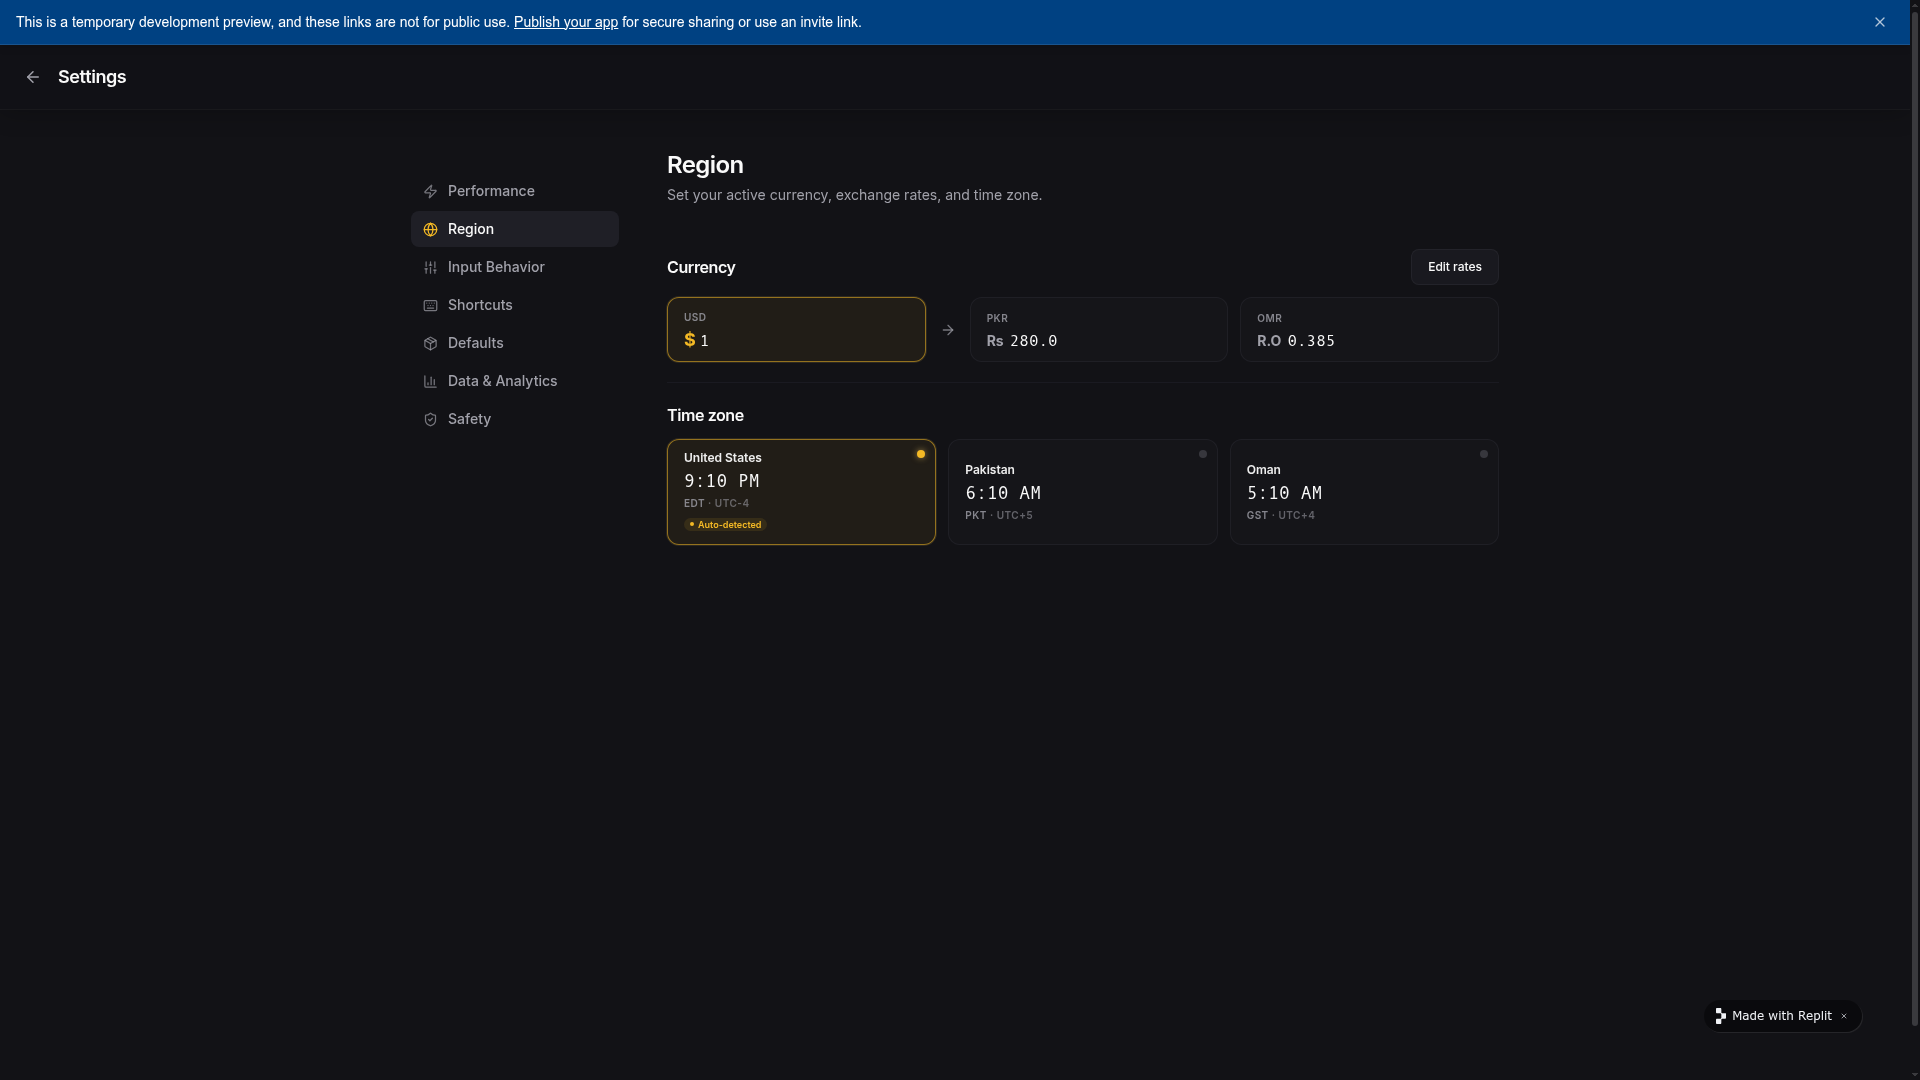
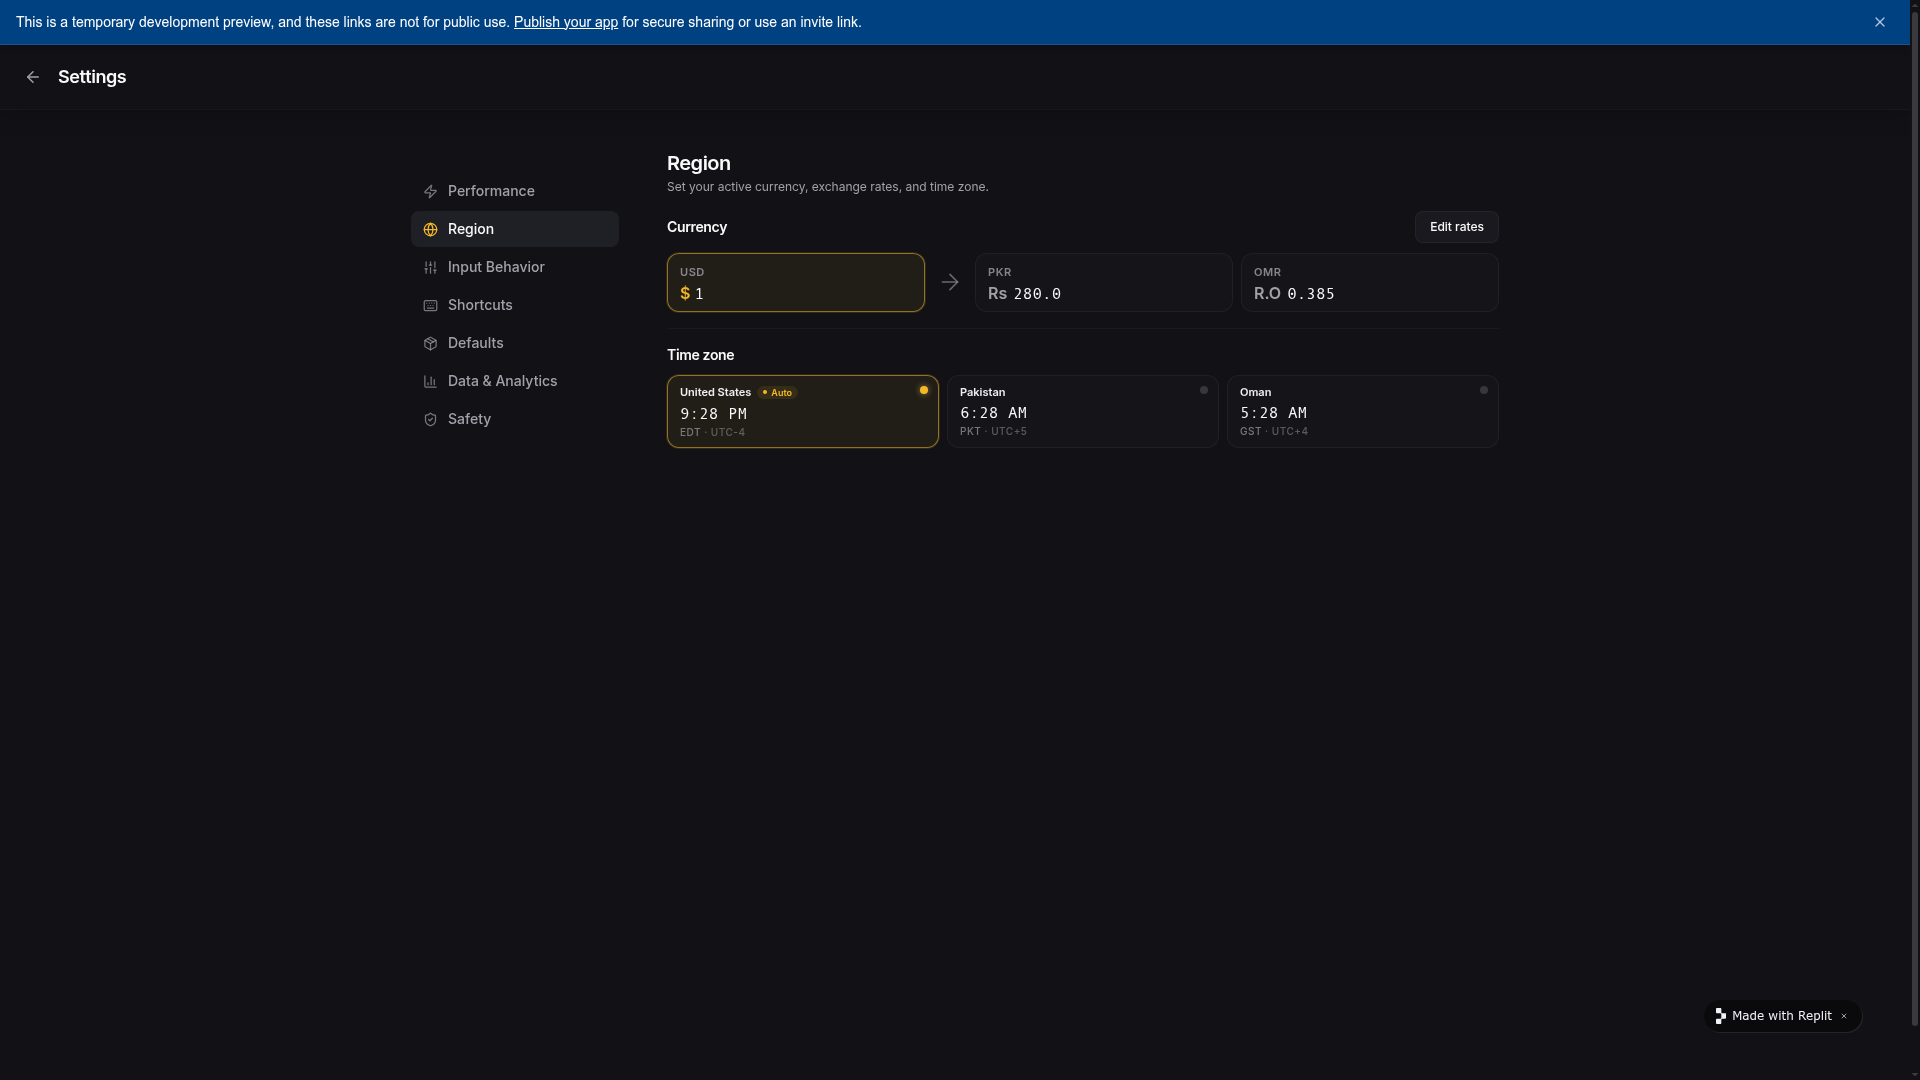
Improve visual polish and layout consistency across the Region tab
Implement a refined typography scale and spacing adjustments in the Region tab, and reposition the auto-detected badge inline with country names.

Replit-Commit-Author: Agent
Replit-Commit-Session-Id: fb33fa46-3691-49df-94f1-1d14acff730e
Replit-Commit-Checkpoint-Type: full_checkpoint
Replit-Commit-Event-Id: 8c5be78c-9d84-4fb3-9e41-23735abbb766
Replit-Helium-Checkpoint-Created: true

diff --git a/artifacts/pos-system/src/pages/Settings.tsx b/artifacts/pos-system/src/pages/Settings.tsx
@@ -247,11 +247,30 @@ function PerformanceSection() {
   );
 }
 
+/* ── Region tab — visual hierarchy ────────────────────────────────────────
+   T1  page title          — text-lg sm:text-xl font-semibold
+   T2  block heading       — text-sm  font-semibold
+   T3  card eyebrow        — text-[11px] font-semibold (codes uppercase+tracked,
+                             country names in normal case)
+   T4  primary value       — text-base font-mono font-semibold (rate / time)
+   T4  unit prefix         — text-base font-semibold (matches value baseline)
+   T5  card meta line      — text-[10px] uppercase tracking-wider font-medium
+   T6  badges              — text-[9px]  font-semibold
+   B   buttons             — text-xs    font-medium
+   Spacing is intentionally tight: the whole tab is one compact, scannable
+   surface with no wasted vertical real-estate. */
+
 function RegionSection() {
   return (
     <>
-      <SectionHeader title="Region" desc="Set your active currency, exchange rates, and time zone." />
+      {/* Compact T1 page title — overrides the global SectionHeader's larger
+          spacing so the Region tab feels denser. */}
+      <div className="mb-4">
+        <h2 className="text-lg sm:text-xl font-semibold tracking-tight">Region</h2>
+        <p className="text-xs text-muted-foreground mt-0.5">Set your active currency, exchange rates, and time zone.</p>
+      </div>
       <CurrencyRatesBlock />
+      <div className="h-px bg-border/40 my-4" />
       <TimeZoneBlock />
     </>
   );
@@ -259,11 +278,11 @@ function RegionSection() {
 
 /* ── Currency block ────────────────────────────────────────────────────────
    Section title "Currency" on the left, "Edit rates" button on the right.
-   Below: three cards in a horizontal row — USD, then a right-pointing arrow,
-   then PKR and OMR. USD shows "$1" and is never editable. PKR and OMR show
-   their rate (1-decimal / 3-decimal). When editing, PKR and OMR cards expose
-   inline number inputs and the button toggles to "Save". On Save, values are
-   re-formatted to their fixed precision. */
+   Below: three cards in a horizontal row — USD, then a tall right-pointing
+   arrow, then PKR and OMR. USD shows "$1" and is never editable. PKR and OMR
+   show their rate (1-decimal / 3-decimal). When editing, PKR and OMR cards
+   expose inline number inputs and the button toggles to "Save". On Save,
+   values are re-formatted to their fixed precision. */
 function CurrencyRatesBlock() {
   const { settings, update } = useSettings();
   const [editing, setEditing] = useState(false);
@@ -296,29 +315,35 @@ function CurrencyRatesBlock() {
   const dispPkr = settings.rates.PKR.toFixed(1);
   const dispOmr = settings.rates.OMR.toFixed(3);
 
+  // Card chrome shared across USD / PKR / OMR.
   const cardBase =
-    "group relative text-left px-3 sm:px-4 py-3 rounded-xl border transition-all duration-300";
+    "group relative text-left px-3 py-2.5 rounded-xl border transition-all duration-300";
   const cardActive =
     "border-primary/55 bg-primary/[0.07] shadow-[0_0_0_1px_rgba(212,175,90,0.14)]";
   const cardInactive =
     "border-border/50 bg-white/[0.015] hover:border-border hover:bg-white/[0.03]";
 
+  // Tier classes — single source of truth so all three cards stay in lockstep.
+  const eyebrowCls = "text-[11px] uppercase tracking-wider text-muted-foreground/80 font-semibold mb-1";
+  const valueCls   = "text-base font-mono font-semibold text-foreground tabular-nums leading-none";
+  const unitCls    = "text-base font-semibold text-muted-foreground leading-none";
+
   return (
-    <Block>
+    <div>
       {/* Section title left, action button right — same row */}
-      <div className="flex items-center justify-between mb-3">
-        <h3 className="text-sm sm:text-base font-semibold tracking-tight">Currency</h3>
+      <div className="flex items-center justify-between mb-2.5">
+        <h3 className="text-sm font-semibold tracking-tight">Currency</h3>
         {editing ? (
           <div className="flex items-center gap-2 shrink-0">
             <button
               onClick={() => setEditing(false)}
-              className="h-9 px-3 rounded-lg text-xs font-medium text-muted-foreground hover:text-foreground hover:bg-secondary/50 transition-all duration-200"
+              className="h-8 px-3 rounded-lg text-xs font-medium text-muted-foreground hover:text-foreground hover:bg-secondary/50 transition-all duration-200"
             >
               Cancel
             </button>
             <button
               onClick={save}
-              className="h-9 px-4 rounded-lg bg-primary text-primary-foreground text-xs font-semibold hover:bg-primary/90 active:scale-[0.97] transition-all duration-200"
+              className="h-8 px-3.5 rounded-lg bg-primary text-primary-foreground text-xs font-semibold hover:bg-primary/90 active:scale-[0.97] transition-all duration-200"
               data-testid="btn-save-rates"
             >
               Save
@@ -327,7 +352,7 @@ function CurrencyRatesBlock() {
         ) : (
           <button
             onClick={enterEdit}
-            className="h-9 px-4 rounded-lg border border-border/60 bg-secondary/40 text-xs font-medium text-foreground hover:border-border hover:bg-secondary/60 transition-all duration-200 shrink-0"
+            className="h-8 px-3.5 rounded-lg border border-border/60 bg-secondary/40 text-xs font-medium text-foreground hover:border-border hover:bg-secondary/60 transition-all duration-200 shrink-0"
             data-testid="btn-edit-rates"
           >
             Edit rates
@@ -336,7 +361,7 @@ function CurrencyRatesBlock() {
       </div>
 
       {/* USD → PKR  OMR — arrow appears between USD and PKR only */}
-      <div className="flex items-stretch gap-2 sm:gap-3">
+      <div className="flex items-stretch gap-2">
         {/* USD card — locked base, never editable */}
         <button
           type="button"
@@ -345,16 +370,21 @@ function CurrencyRatesBlock() {
           className={`flex-1 ${cardBase} ${settings.currency === "USD" ? cardActive : cardInactive} ${editing ? "cursor-default" : "cursor-pointer"}`}
           data-testid="card-usd"
         >
-          <div className="text-[10px] uppercase tracking-wider text-muted-foreground/80 font-semibold mb-1.5">USD</div>
+          <div className={eyebrowCls}>USD</div>
           <div className="flex items-baseline gap-1">
-            <span className="text-base sm:text-lg font-bold text-primary leading-none">$</span>
-            <span className="text-[15px] sm:text-base font-mono font-semibold text-foreground tabular-nums leading-none">1</span>
+            <span className={`${unitCls} text-primary`}>$</span>
+            <span className={valueCls}>1</span>
           </div>
         </button>
 
-        {/* Arrow — between USD and PKR only */}
-        <div className="flex items-center justify-center shrink-0 px-0.5 text-muted-foreground/70" aria-hidden="true">
-          <ArrowRight size={16} />
+        {/* Arrow — between USD and PKR only. self-stretch makes the icon
+            container the full card height; the icon itself is large enough
+            to read as a real connector rather than a tick mark. */}
+        <div
+          className="flex items-center justify-center shrink-0 self-stretch px-1 text-muted-foreground/60"
+          aria-hidden="true"
+        >
+          <ArrowRight size={26} strokeWidth={1.5} />
         </div>
 
         {/* PKR card */}
@@ -365,10 +395,10 @@ function CurrencyRatesBlock() {
           className={`flex-1 ${cardBase} ${settings.currency === "PKR" ? cardActive : cardInactive} ${editing ? "cursor-default" : "cursor-pointer"}`}
           data-testid="card-pkr"
         >
-          <div className="text-[10px] uppercase tracking-wider text-muted-foreground/80 font-semibold mb-1.5">PKR</div>
+          <div className={eyebrowCls}>PKR</div>
           {editing ? (
-            <div className="relative h-7 -my-0.5">
-              <span className="absolute left-0 top-1/2 -translate-y-1/2 text-xs font-bold text-muted-foreground pointer-events-none">Rs</span>
+            <div className="relative h-6 -my-0.5">
+              <span className={`absolute left-0 top-1/2 -translate-y-1/2 ${unitCls} pointer-events-none`}>Rs</span>
               <input
                 type="text"
                 inputMode="decimal"
@@ -376,14 +406,14 @@ function CurrencyRatesBlock() {
                 onChange={e => setPkr(e.target.value.replace(/[^0-9.]/g, ''))}
                 onClick={e => e.stopPropagation()}
                 autoFocus
-                className="w-full h-full pl-7 pr-1 bg-transparent border-0 border-b border-primary/50 focus:border-primary text-[15px] sm:text-base font-mono font-semibold text-foreground outline-none transition-colors duration-200 tabular-nums"
+                className={`w-full h-full pl-7 pr-1 bg-transparent border-0 border-b border-primary/50 focus:border-primary outline-none transition-colors duration-200 ${valueCls}`}
                 data-testid="input-rate-pkr"
               />
             </div>
           ) : (
             <div className="flex items-baseline gap-1.5">
-              <span className="text-xs sm:text-sm font-bold text-muted-foreground leading-none">Rs</span>
-              <span className="text-[15px] sm:text-base font-mono font-semibold text-foreground tabular-nums leading-none">{dispPkr}</span>
+              <span className={unitCls}>Rs</span>
+              <span className={valueCls}>{dispPkr}</span>
             </div>
           )}
         </button>
@@ -396,29 +426,29 @@ function CurrencyRatesBlock() {
           className={`flex-1 ${cardBase} ${settings.currency === "OMR" ? cardActive : cardInactive} ${editing ? "cursor-default" : "cursor-pointer"}`}
           data-testid="card-omr"
         >
-          <div className="text-[10px] uppercase tracking-wider text-muted-foreground/80 font-semibold mb-1.5">OMR</div>
+          <div className={eyebrowCls}>OMR</div>
           {editing ? (
-            <div className="relative h-7 -my-0.5">
-              <span className="absolute left-0 top-1/2 -translate-y-1/2 text-xs font-bold text-muted-foreground pointer-events-none">R.O</span>
+            <div className="relative h-6 -my-0.5">
+              <span className={`absolute left-0 top-1/2 -translate-y-1/2 ${unitCls} pointer-events-none`}>R.O</span>
               <input
                 type="text"
                 inputMode="decimal"
                 value={omr}
                 onChange={e => setOmr(e.target.value.replace(/[^0-9.]/g, ''))}
                 onClick={e => e.stopPropagation()}
-                className="w-full h-full pl-9 pr-1 bg-transparent border-0 border-b border-primary/50 focus:border-primary text-[15px] sm:text-base font-mono font-semibold text-foreground outline-none transition-colors duration-200 tabular-nums"
+                className={`w-full h-full pl-10 pr-1 bg-transparent border-0 border-b border-primary/50 focus:border-primary outline-none transition-colors duration-200 ${valueCls}`}
                 data-testid="input-rate-omr"
               />
             </div>
           ) : (
             <div className="flex items-baseline gap-1.5">
-              <span className="text-xs sm:text-sm font-bold text-muted-foreground leading-none">R.O</span>
-              <span className="text-[15px] sm:text-base font-mono font-semibold text-foreground tabular-nums leading-none">{dispOmr}</span>
+              <span className={unitCls}>R.O</span>
+              <span className={valueCls}>{dispOmr}</span>
             </div>
           )}
         </button>
       </div>
-    </Block>
+    </div>
   );
 }
 
@@ -453,9 +483,9 @@ function TimeZoneBlock() {
   const order: RegionKey[] = ["US", "PK", "OM"];
 
   return (
-    <Block>
-      <h3 className="text-sm sm:text-base font-semibold tracking-tight mb-3">Time zone</h3>
-      <div className="grid grid-cols-3 gap-2 sm:gap-3">
+    <div>
+      <h3 className="text-sm font-semibold tracking-tight mb-2.5">Time zone</h3>
+      <div className="grid grid-cols-3 gap-2">
         {order.map(key => {
           const meta = REGIONS[key];
           const isActive = settings.region === key;
@@ -467,7 +497,7 @@ function TimeZoneBlock() {
               key={key}
               type="button"
               onClick={() => update("region", key)}
-              className={`relative text-left px-3 sm:px-4 py-3 rounded-xl border transition-all duration-300 cursor-pointer ${
+              className={`relative text-left px-3 py-2.5 rounded-xl border transition-all duration-300 cursor-pointer ${
                 isActive
                   ? "border-primary/55 bg-primary/[0.07] shadow-[0_0_0_1px_rgba(212,175,90,0.14)]"
                   : "border-border/50 bg-white/[0.015] hover:border-border hover:bg-white/[0.03]"
@@ -475,33 +505,40 @@ function TimeZoneBlock() {
               data-testid={`card-region-${key.toLowerCase()}`}
               aria-pressed={isActive}
             >
-              {/* Active dot — top-right */}
+              {/* Active dot — top-right corner */}
               <span
                 className={`absolute top-2.5 right-2.5 inline-block w-2 h-2 rounded-full transition-all duration-200 ${
                   isActive ? "bg-primary shadow-[0_0_6px_rgba(212,175,90,0.7)]" : "bg-muted-foreground/25"
                 }`}
                 aria-hidden="true"
               />
-              <div className="text-[11px] sm:text-xs font-semibold text-foreground/95 leading-none mb-2 pr-4 truncate">
-                {meta.label}
+              {/* Country name + auto-detected badge — same line, leaves room
+                  on the right for the active dot. */}
+              <div className="flex items-center gap-1.5 mb-1.5 pr-5 min-w-0">
+                <span className="text-[11px] font-semibold text-foreground/95 leading-none truncate">
+                  {meta.label}
+                </span>
+                {isAuto && (
+                  <span
+                    className="shrink-0 inline-flex items-center gap-1 px-1.5 py-0.5 rounded-full bg-primary/10 text-primary text-[9px] font-semibold leading-none"
+                    title="Detected from your browser"
+                  >
+                    <span className="w-1 h-1 rounded-full bg-primary" />
+                    Auto
+                  </span>
+                )}
               </div>
-              <div className="text-base sm:text-lg font-mono font-semibold tabular-nums text-foreground leading-none mb-2">
+              <div className="text-base font-mono font-semibold tabular-nums text-foreground leading-none mb-1.5">
                 {time}
               </div>
-              <div className="text-[10px] uppercase tracking-wider text-muted-foreground/80 font-semibold leading-none">
+              <div className="text-[10px] uppercase tracking-wider text-muted-foreground/70 font-medium leading-none">
                 {abbr === offset ? offset : <>{abbr} <span className="opacity-70">· {offset}</span></>}
               </div>
-              {isAuto && (
-                <span className="mt-2 inline-flex items-center gap-1 px-1.5 py-0.5 rounded-full bg-primary/10 text-primary text-[9px] font-semibold leading-none">
-                  <span className="w-1 h-1 rounded-full bg-primary" />
-                  Auto-detected
-                </span>
-              )}
             </button>
           );
         })}
       </div>
-    </Block>
+    </div>
   );
 }
 
